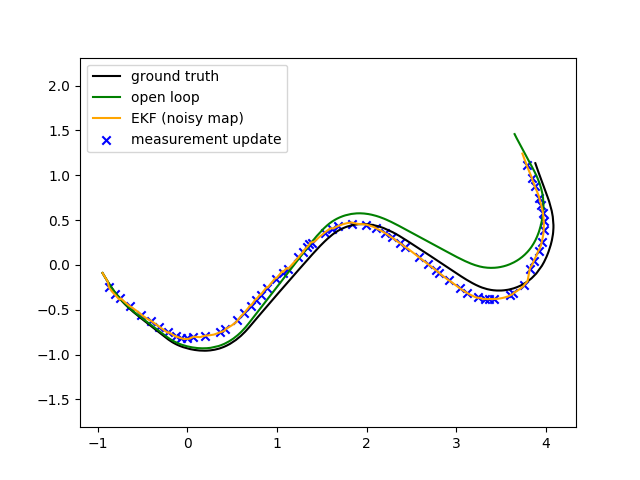
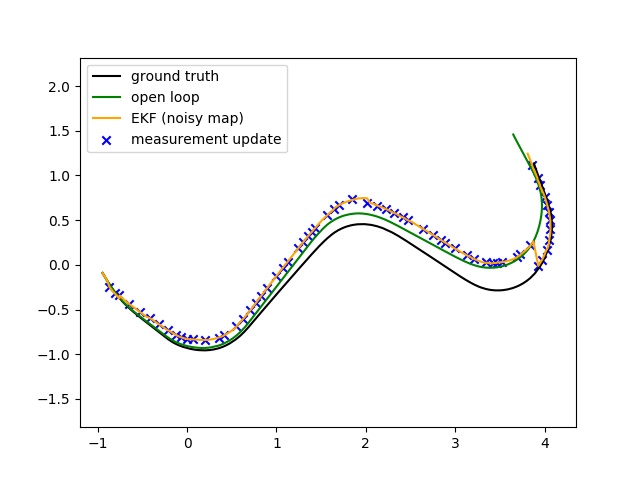
Actually working EKF SLAM

diff --git a/ekf.py b/ekf.py
@@ -371,14 +371,23 @@ class EkfSlam(Ekf):
             Hx = np.zeros((2,self.x.size))
 
             ########## Code starts here ##########
-            x_cam, y_cam, th_cam = self.tf_base_to_camera
             line = [alpha, r]
             h, Hx[0:2,0:3] = tb.transform_line_to_scanner_frame(line, self.x[0:3], self.tf_base_to_camera, True)
+            
+            
+            x_base, y_base, th_base = self.x[0:3]
+            x_cam, y_cam, th_cam = self.tf_base_to_camera
+            tf_robot_to_world = np.array([[np.cos(th_base), -np.sin(th_base), x_base],
+                                          [np.sin(th_base),  np.cos(th_base), y_base], 
+                                          [              0,                0,      1]])
+    
+            x_cam_world, y_cam_world, th_cam_world = tf_robot_to_world.dot(np.array([x_cam, y_cam, 1]))
+            
             # First two map lines are assumed fixed so we don't want to propagate
             # any measurement correction to them.
             if j >= 2:
-                Hx[:,idx_j:idx_j+2] = np.eye(2)  # FIX ME!
-                Hx[1, idx_j] = x_cam*np.sin(alpha) - y_cam*np.cos(alpha)
+                Hx[:,idx_j:idx_j+2] = np.eye(2)
+                Hx[1, idx_j] = x_cam_world*np.sin(alpha) - y_cam_world*np.cos(alpha)
             ########## Code ends here ##########
 
             h, Hx = tb.normalize_line_parameters(h, Hx)
